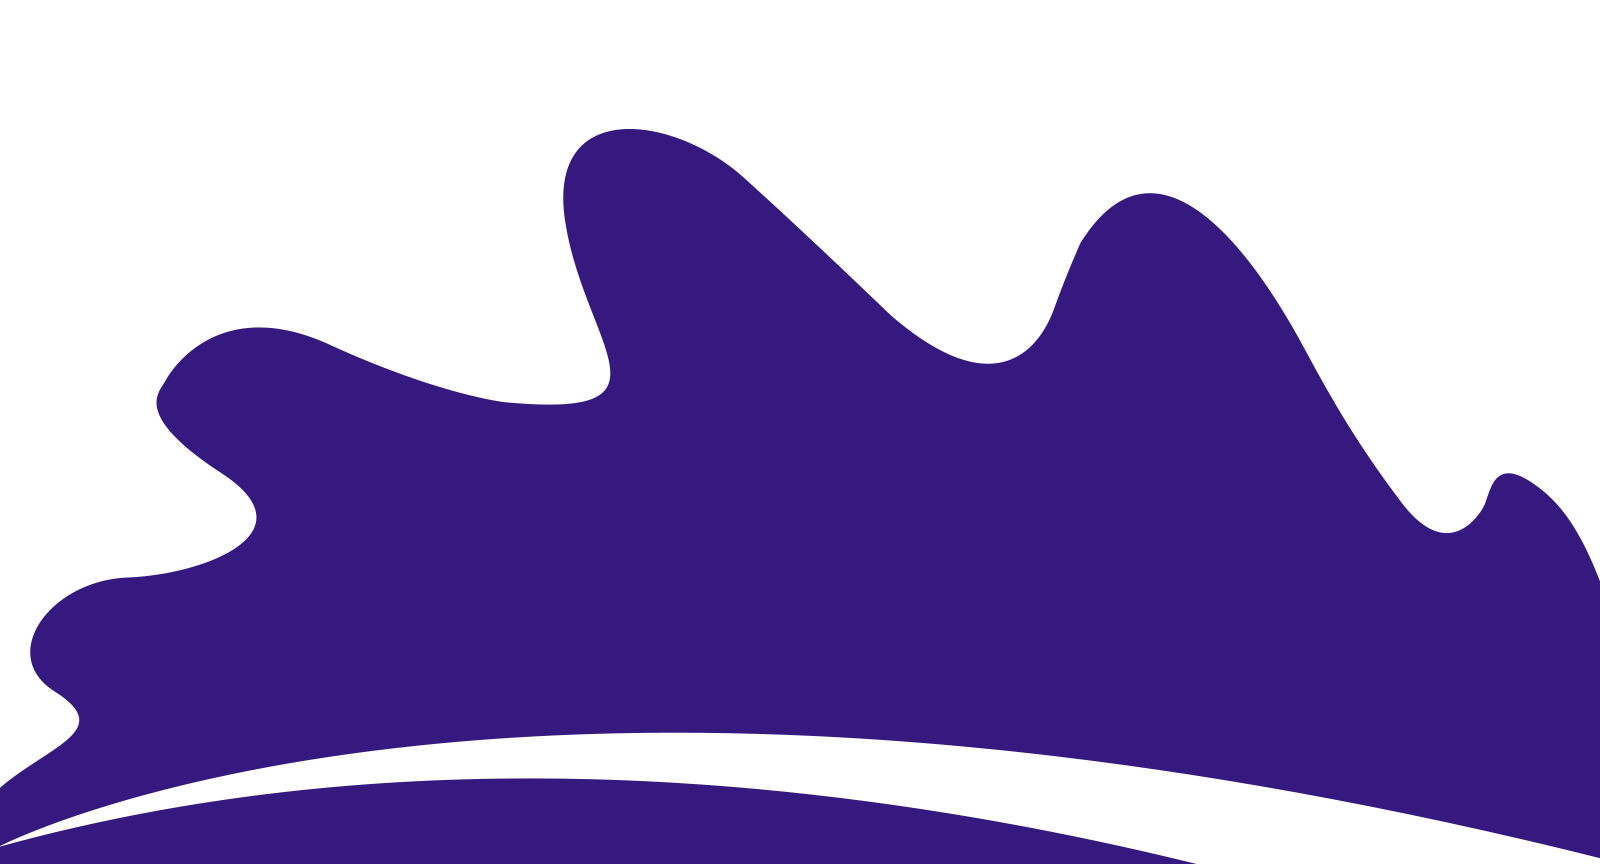
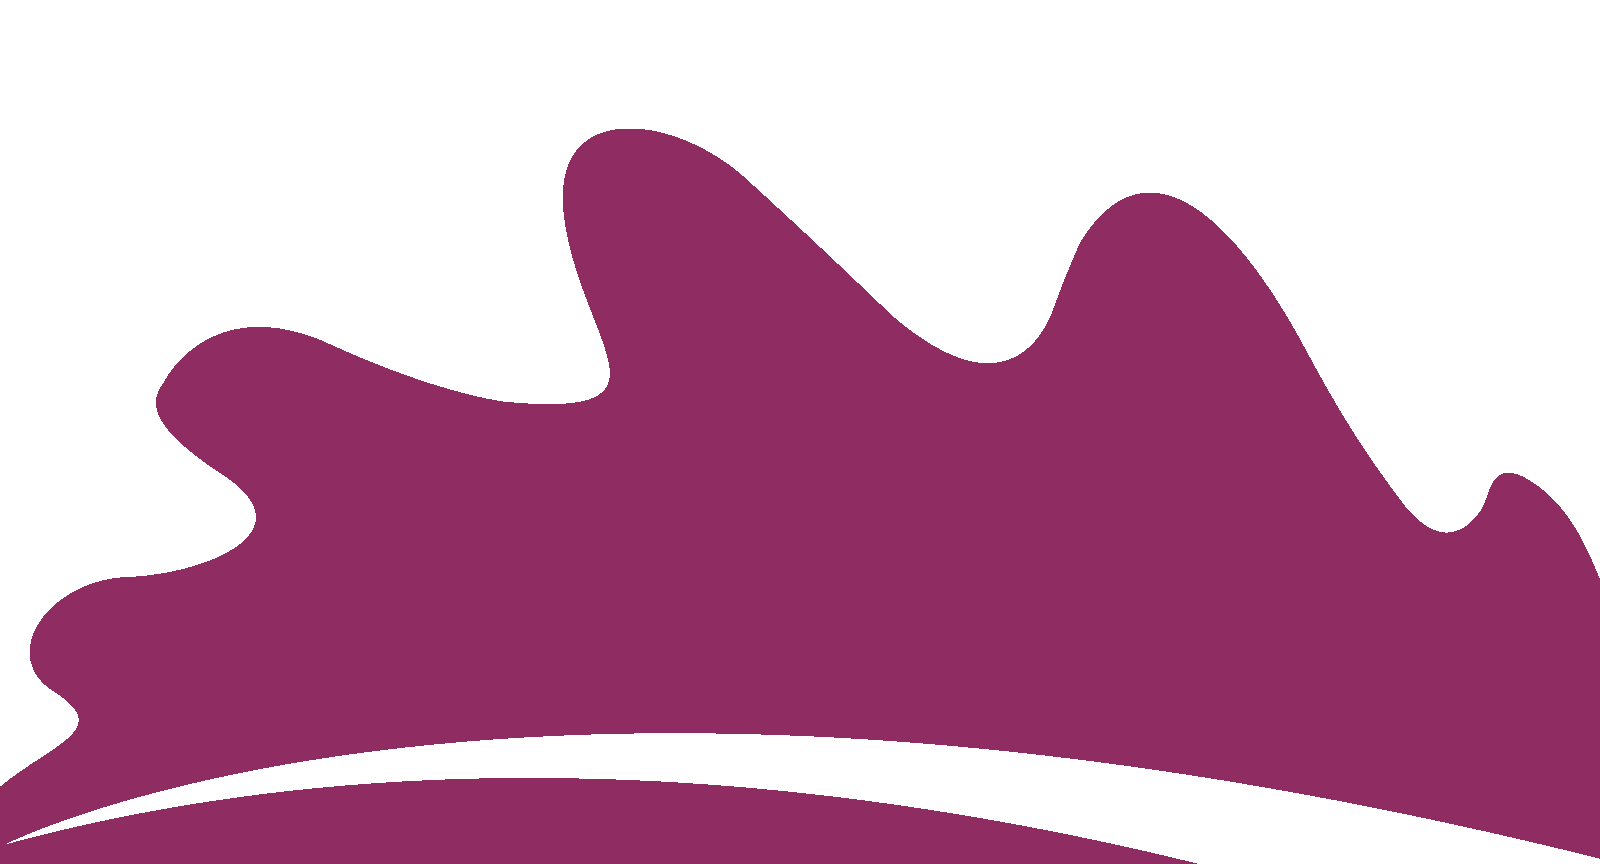
Add start page

diff --git a/_includes/hero-section.html b/_includes/hero-section.html
@@ -9,30 +9,31 @@
   </div>
   <div class="layer-bg w-100">
     <img class="img-fluid w-100" src="{{ site.baseurl }}/assets/images/illustrations/leaf-bg.png" alt="bg-shape">
-  </div>
-  <div class="layer" id="l2">
-    <img src="{{ site.baseurl }}/assets/images/illustrations/dots-cyan.png" alt="bg-shape">
-  </div>
-  <div class="layer" id="l3">
-    <img src="{{ site.baseurl }}/assets/images/illustrations/leaf-orange.png" alt="bg-shape">
-  </div>
-  <div class="layer" id="l4">
-    <img src="{{ site.baseurl }}/assets/images/illustrations/dots-orange.png" alt="bg-shape">
-  </div>
-  <div class="layer" id="l5">
-    <img src="{{ site.baseurl }}/assets/images/illustrations/leaf-yellow.png" alt="bg-shape">
-  </div>
-  <div class="layer" id="l6">
-    <img src="{{ site.baseurl }}/assets/images/illustrations/leaf-cyan.png" alt="bg-shape">
-  </div>
-  <div class="layer" id="l7">
-    <img src="{{ site.baseurl }}/assets/images/illustrations/dots-group-orange.png" alt="bg-shape">
-  </div>
-  <div class="layer" id="l8">
-    <img src="{{ site.baseurl }}/assets/images/illustrations/leaf-pink-round.png" alt="bg-shape">
-  </div>
-  <div class="layer" id="l9">
-    <img src="{{ site.baseurl }}/assets/images/illustrations/leaf-cyan-2.png" alt="bg-shape">
+<!--    <div class="layer" id="l2">
+      <img src="{{ site.baseurl }}/assets/images/illustrations/dots-cyan.png" alt="bg-shape">
+    </div>-->
+    <div class="layer" id="l3">
+      <img src="{{ site.baseurl }}/assets/images/illustrations/pi-pico.png" alt="bg-shape">
+    </div>
+    <!--<div class="layer" id="l4">
+      <img src="{{ site.baseurl }}/assets/images/illustrations/dots-orange.png" alt="bg-shape">
+    </div>-->
+    <div class="layer" id="l5">
+      <img src="{{ site.baseurl }}/assets/images/illustrations/dorian.png" alt="bg-shape">
+    </div>
+    
+    <!--<div class="layer" id="l6">
+      <img src="{{ site.baseurl }}/assets/images/illustrations/leaf-cyan.png" alt="bg-shape">
+    </div>-->
+    <div class="layer" id="l7">
+      <img src="{{ site.baseurl }}/assets/images/illustrations/dots-multicolor.png" alt="bg-shape">
+    </div>
+    <div class="layer" id="l8">
+      <img src="{{ site.baseurl }}/assets/images/illustrations/belljar.png" alt="bg-shape">
+    </div>
+    <div class="layer" id="l9">
+      <img src="{{ site.baseurl }}/assets/images/illustrations/dorian.png" alt="bg-shape">
+    </div>
   </div>
   <!-- social icon -->
   <ul class="list-unstyled ml-5 mt-3 position-relative zindex-1">

diff --git a/assets/scss/_variables.scss b/assets/scss/_variables.scss
@@ -1,10 +1,10 @@
 // Color Variables
-$primary-color: #41228e;
+$primary-color: #D02B57;
 $secondary-color: #2bfdff;
 $text-color: #4c4c4c;
-$text-color-dark: #000;
-$text-color-light: #999;
-$body-color: #fff;
+$text-color-dark: #F5F5F5;
+$text-color-light: #FFFFFF;
+$body-color: #2E2E2E;
 $border-color: #c7c7c7;
 $black: #000;
 $white: #fff;
